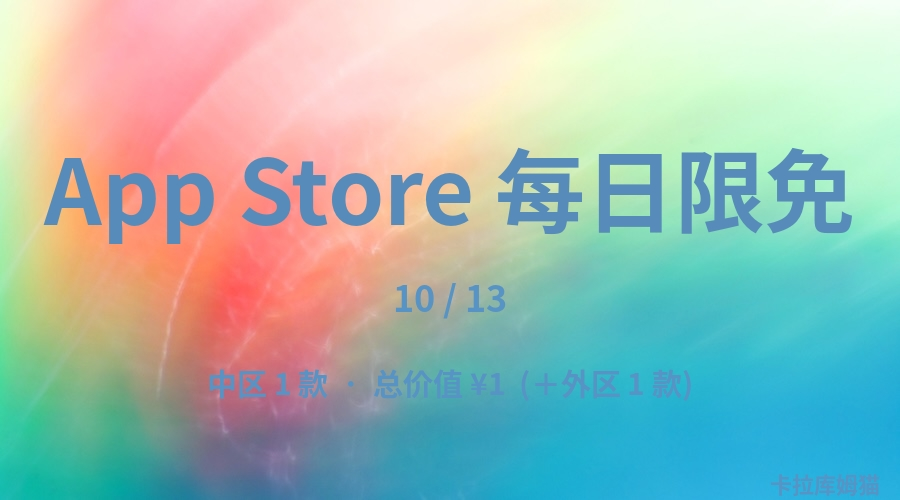
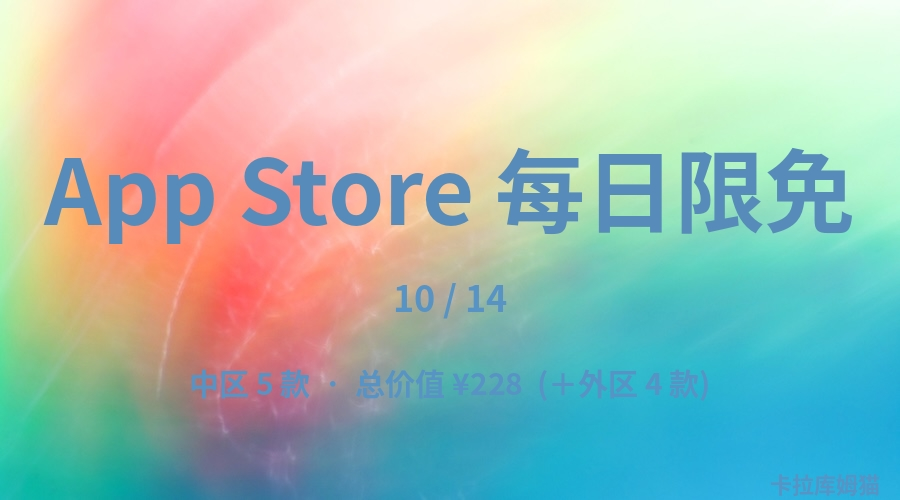
Generate article content [skip ci]

Changed region(s): [[0.1867, 0.72, 0.5289, 0.81], [0.56, 0.72, 0.8089, 0.81], [0.5289, 0.57, 0.56, 0.63]]

diff --git a/output_daily/article.html b/output_daily/article.html
@@ -1,1 +1,1 @@
-<section style="text-align:center;padding:24px 16px 14px;"><section style="display:inline-block;background:linear-gradient(135deg,#ff7b3d,#e05a2a);padding:6px 20px;border-radius:20px;"><span style="font-size:14px;font-weight:700;color:#ffffff;letter-spacing:1px;">10 / 13</span></section><p style="font-size:26px;font-weight:700;color:#2c2c2c;letter-spacing:1px;margin:16px 0 6px;">App Store 每日限免白嫖</p><p style="font-size:13px;color:#999999;margin:0;">iOS限免随时结束 · 长按扫码下载 · 手慢无</p></section><section style="text-align:center;padding:4px 0 16px;"><span style="display:inline-block;width:36px;height:3px;background-color:#e8724a;border-radius:2px;"></span></section><section style="text-align:center;padding:4px 0 16px;"><span style="display:inline-block;font-size:14px;font-weight:600;color:#e8724a;border:1px dashed #e8724a;border-radius:24px;padding:6px 20px;letter-spacing:1px;">⬇ 中区 1 款限免 · 长按扫码下载 ⬇</span></section><section style="text-align:center;padding:0 0 20px;"><span style="display:inline-block;font-size:12px;color:#6b6b6b;background-color:#ffffff;border:1px solid #e8e3db;border-radius:14px;padding:4px 12px;margin:2px 3px;">💰 总价值 <strong style="color:#2c2c2c;">¥1</strong></span><span style="display:inline-block;font-size:12px;color:#6b6b6b;background-color:#ffffff;border:1px solid #e8e3db;border-radius:14px;padding:4px 12px;margin:2px 3px;">🆓 中区全免 <strong style="color:#2c2c2c;">1</strong> 款</span><span style="display:inline-block;font-size:12px;color:#3c7ce0;background-color:#ffffff;border:1px solid #cfe0f7;border-radius:14px;padding:4px 12px;margin:2px 3px;">🌏 外区限免 <strong style="color:#3c7ce0;">1</strong> 款</span><span style="display:inline-block;font-size:12px;color:#6b6b6b;background-color:#ffffff;border:1px solid #e8e3db;border-radius:14px;padding:4px 12px;margin:2px 3px;">⏰ 限时有效</span></section><section style="background-color:#ffffff;border:1px solid #e8e3db;border-radius:10px;margin:0 0 14px;padding:0;"><section style="padding:16px;"><section style="margin:0 0 10px;"><span style="display:inline-block;width:30px;height:30px;background-color:#fdf0ea;color:#e8724a;border-radius:8px;text-align:center;line-height:30px;font-size:14px;font-weight:700;vertical-align:middle;">1</span><span style="font-size:17px;font-weight:700;color:#2c2c2c;vertical-align:middle;margin:0 6px;">🔧 精灵扫描仪-OCR拍照识字朗读</span><span style="display:inline-block;background-color:#e8f7f1;color:#07a776;font-size:12px;font-weight:700;padding:3px 10px;border-radius:12px;margin:0 0 0 4px;vertical-align:middle;">限免中</span><span style="display:inline-block;background-color:#e8f0fc;color:#3c7ce0;font-size:12px;font-weight:500;padding:3px 10px;border-radius:12px;margin:0 0 0 4px;vertical-align:middle;">工具</span></section><section style="margin:0 0 10px;"><p style="font-size:13px;color:#6b6b6b;line-height:1.6;margin:0 0 0 42px;padding:8px 12px;background-color:#f9f7f4;border-radius:6px;border-left:3px solid #e8724a;">产品源于现实生活中一个切身需求：快速准确地将书页或图片上的大段文字转到手机上可编辑，后来扩展到用人工智能语音朗诵。。。  【功能亮点】 AI加持，最新人工智能文字、语音技术即时拍图识字； 识别精准，可编辑、易校对、轻松转语音； 支持多种语言...</p></section><section style="margin:0 0 10px;"><span style="color:#07a776;font-weight:700;font-size:16px;">中区 免费</span><span style="text-decoration:line-through;color:#999999;font-size:13px;margin:0 4px;">原价 ¥1</span><span style="display:inline-block;background-color:#fff0ed;color:#e8724a;font-size:11px;font-weight:600;padding:2px 8px;border-radius:8px;margin:0 0 0 6px;">省 ¥1</span></section><section style="margin:0 0 10px;"><span style="font-size:12px;color:#6b6b6b;">美区 免费</span></section><section style="text-align:center;margin:0;"><img src="{{IMG:qr_0}}" style="width:140px;height:140px;display:inline-block;border:1px solid #e8e3db;border-radius:6px;padding:4px;"><p style="font-size:11px;color:#999999;margin:4px 0 0;">▲ 长按识别二维码，跳转 App Store 下载</p></section></section></section><section style="text-align:center;padding:20px 16px 4px;"><span style="display:inline-block;font-size:15px;font-weight:700;color:#3c7ce0;border:1px dashed #3c7ce0;border-radius:20px;padding:6px 18px;letter-spacing:1px;">🌏 外区限免 · 需切换 Apple ID 地区后下载</span></section><section style="text-align:center;padding:0 16px 10px;"><p style="font-size:12px;color:#999999;margin:6px 0 0;">以下 App 仅美区免费，国区仍为付费。请在 App Store 切换至美区账号后扫码下载。</p></section><section style="background-color:#ffffff;border:1px solid #cfe0f7;border-radius:10px;margin:0 0 14px;padding:0;"><section style="padding:16px;"><section style="margin:0 0 10px;"><span style="display:inline-block;width:30px;height:30px;background-color:#e8f0fc;color:#3c7ce0;border-radius:8px;text-align:center;line-height:30px;font-size:14px;font-weight:700;vertical-align:middle;">1</span><span style="font-size:17px;font-weight:700;color:#2c2c2c;vertical-align:middle;margin:0 6px;">📱 Markit - markdown reader</span><span style="display:inline-block;background-color:#e8f0fc;color:#3c7ce0;font-size:12px;font-weight:500;padding:3px 10px;border-radius:12px;margin:0 0 0 4px;vertical-align:middle;">LTF</span></section><section style="margin:0 0 10px;"><p style="font-size:13px;color:#6b6b6b;line-height:1.6;margin:0 0 0 42px;padding:8px 12px;background-color:#f9f7f4;border-radius:6px;border-left:3px solid #3c7ce0;">Markit 是一个为 macOS 写的 Markdown 编辑器。输入即渲染，你看到的一直是排版好的样子；而磁盘上存的，始终是一份任何工具都能打开的纯 .md 文件。  写起来是什么感觉  所见即所得，标题、列表、表格、脚注即打即现 Me...</p></section><section style="margin:0 0 10px;"><span style="display:inline-block;background-color:#e8f0fc;color:#3c7ce0;font-size:12px;font-weight:700;padding:3px 10px;border-radius:12px;margin:0 0 6px 0;vertical-align:middle;">仅美区免费 · 需切区</span><br><span style="color:#07a776;font-weight:700;font-size:16px;">美区 免费</span></section><section style="margin:0 0 10px;"><span style="font-size:12px;color:#6b6b6b;">中区：原价 ¥88.0（未限免）</span></section><section style="text-align:center;margin:0;"><img src="{{IMG:qr_1}}" style="width:140px;height:140px;display:inline-block;border:1px solid #e8e3db;border-radius:6px;padding:4px;"><p style="font-size:11px;color:#999999;margin:4px 0 0;">▲ 长按识别二维码，跳转美区 App Store 下载</p></section></section></section><section style="text-align:center;padding:20px 16px 8px;"><p style="font-size:12px;color:#999999;line-height:1.8;margin:0;"><span style="color:#e8724a;">●</span> 限免价格随时可能恢复 · 下载前请确认最终价格 <span style="color:#e8724a;">●</span></p><p style="font-size:11px;color:#999999;margin:6px 0 0;">数据来源 App Store · 更新于 2026-10-13</p></section>
+<section style="text-align:center;padding:24px 16px 14px;"><section style="display:inline-block;background:linear-gradient(135deg,#ff7b3d,#e05a2a);padding:6px 20px;border-radius:20px;"><span style="font-size:14px;font-weight:700;color:#ffffff;letter-spacing:1px;">10 / 14</span></section><p style="font-size:26px;font-weight:700;color:#2c2c2c;letter-spacing:1px;margin:16px 0 6px;">App Store 每日限免白嫖</p><p style="font-size:13px;color:#999999;margin:0;">iOS限免随时结束 · 长按扫码下载 · 手慢无</p></section><section style="text-align:center;padding:4px 0 16px;"><span style="display:inline-block;width:36px;height:3px;background-color:#e8724a;border-radius:2px;"></span></section><section style="text-align:center;padding:4px 0 16px;"><span style="display:inline-block;font-size:14px;font-weight:600;color:#e8724a;border:1px dashed #e8724a;border-radius:24px;padding:6px 20px;letter-spacing:1px;">⬇ 中区 5 款限免 · 长按扫码下载 ⬇</span></section><section style="text-align:center;padding:0 0 20px;"><span style="display:inline-block;font-size:12px;color:#6b6b6b;background-color:#ffffff;border:1px solid #e8e3db;border-radius:14px;padding:4px 12px;margin:2px 3px;">💰 总价值 <strong style="color:#2c2c2c;">¥228</strong></span><span style="display:inline-block;font-size:12px;color:#6b6b6b;background-color:#ffffff;border:1px solid #e8e3db;border-radius:14px;padding:4px 12px;margin:2px 3px;">🆓 中区全免 <strong style="color:#2c2c2c;">5</strong> 款</span><span style="display:inline-block;font-size:12px;color:#3c7ce0;background-color:#ffffff;border:1px solid #cfe0f7;border-radius:14px;padding:4px 12px;margin:2px 3px;">🌏 外区限免 <strong style="color:#3c7ce0;">4</strong> 款</span><span style="display:inline-block;font-size:12px;color:#6b6b6b;background-color:#ffffff;border:1px solid #e8e3db;border-radius:14px;padding:4px 12px;margin:2px 3px;">⏰ 限时有效</span></section><section style="background-color:#ffffff;border:1px solid #e8e3db;border-radius:10px;margin:0 0 14px;padding:0;"><section style="padding:16px;"><section style="margin:0 0 10px;"><span style="display:inline-block;width:30px;height:30px;background-color:#fdf0ea;color:#e8724a;border-radius:8px;text-align:center;line-height:30px;font-size:14px;font-weight:700;vertical-align:middle;">1</span><span style="font-size:17px;font-weight:700;color:#2c2c2c;vertical-align:middle;margin:0 6px;">🔧 App Secret Pro</span><span style="display:inline-block;background-color:#e8f7f1;color:#07a776;font-size:12px;font-weight:700;padding:3px 10px;border-radius:12px;margin:0 0 0 4px;vertical-align:middle;">限免中</span><span style="display:inline-block;background-color:#e8f0fc;color:#3c7ce0;font-size:12px;font-weight:500;padding:3px 10px;border-radius:12px;margin:0 0 0 4px;vertical-align:middle;">工具</span></section><section style="margin:0 0 10px;"><p style="font-size:13px;color:#6b6b6b;line-height:1.6;margin:0 0 0 42px;padding:8px 12px;background-color:#f9f7f4;border-radius:6px;border-left:3px solid #e8724a;">App Secret是您的个人金库，用于保护敏感照片、视频、笔记、联系人等-所有这些都受到多层可定制安全性的保护。无论您是保护个人记忆还是机密信息，App Secret都确保只有您才能访问。  曾经把你的手机借给别人吗</p></section><section style="margin:0 0 10px;"><span style="color:#07a776;font-weight:700;font-size:16px;">中区 免费</span><span style="text-decoration:line-through;color:#999999;font-size:13px;margin:0 4px;">原价 ¥28</span><span style="display:inline-block;background-color:#fff0ed;color:#e8724a;font-size:11px;font-weight:600;padding:2px 8px;border-radius:8px;margin:0 0 0 6px;">省 ¥28</span></section><section style="margin:0 0 10px;"><span style="font-size:12px;color:#6b6b6b;">美区 原价 $3.99（未限免）</span></section><section style="text-align:center;margin:0;"><img src="{{IMG:qr_0}}" style="width:140px;height:140px;display:inline-block;border:1px solid #e8e3db;border-radius:6px;padding:4px;"><p style="font-size:11px;color:#999999;margin:4px 0 0;">▲ 长按识别二维码，跳转 App Store 下载</p></section></section></section><section style="background-color:#ffffff;border:1px solid #e8e3db;border-radius:10px;margin:0 0 14px;padding:0;"><section style="padding:16px;"><section style="margin:0 0 10px;"><span style="display:inline-block;width:30px;height:30px;background-color:#fdf0ea;color:#e8724a;border-radius:8px;text-align:center;line-height:30px;font-size:14px;font-weight:700;vertical-align:middle;">2</span><span style="font-size:17px;font-weight:700;color:#2c2c2c;vertical-align:middle;margin:0 6px;">🌦 实时天气雷达Pro - 降雨预报</span><span style="display:inline-block;background-color:#e8f7f1;color:#07a776;font-size:12px;font-weight:700;padding:3px 10px;border-radius:12px;margin:0 0 0 4px;vertical-align:middle;">限免中</span><span style="display:inline-block;background-color:#e8f0fc;color:#3c7ce0;font-size:12px;font-weight:500;padding:3px 10px;border-radius:12px;margin:0 0 0 4px;vertical-align:middle;">天气</span></section><section style="margin:0 0 10px;"><p style="font-size:13px;color:#6b6b6b;line-height:1.6;margin:0 0 0 42px;padding:8px 12px;background-color:#f9f7f4;border-radius:6px;border-left:3px solid #e8724a;">再也不会被雨困住。 Rain Radar Pro 显示强大的实时天气雷达地图，让您实时查看降雨、风暴和降水。跟踪逼近的天气系统，准确知道雨何时会到达您所在位置。 交互式雷达地图让您追踪风暴移动，查看降水强度，监测世界任何地方变化的天气状况。...</p></section><section style="margin:0 0 10px;"><span style="color:#07a776;font-weight:700;font-size:16px;">中区 免费</span><span style="text-decoration:line-through;color:#999999;font-size:13px;margin:0 4px;">原价 ¥148</span><span style="display:inline-block;background-color:#fff0ed;color:#e8724a;font-size:11px;font-weight:600;padding:2px 8px;border-radius:8px;margin:0 0 0 6px;">省 ¥148</span></section><section style="margin:0 0 10px;"><span style="font-size:12px;color:#6b6b6b;">美区 免费</span></section><section style="text-align:center;margin:0;"><img src="{{IMG:qr_1}}" style="width:140px;height:140px;display:inline-block;border:1px solid #e8e3db;border-radius:6px;padding:4px;"><p style="font-size:11px;color:#999999;margin:4px 0 0;">▲ 长按识别二维码，跳转 App Store 下载</p></section></section></section><section style="background-color:#ffffff;border:1px solid #e8e3db;border-radius:10px;margin:0 0 14px;padding:0;"><section style="padding:16px;"><section style="margin:0 0 10px;"><span style="display:inline-block;width:30px;height:30px;background-color:#fdf0ea;color:#e8724a;border-radius:8px;text-align:center;line-height:30px;font-size:14px;font-weight:700;vertical-align:middle;">3</span><span style="font-size:17px;font-weight:700;color:#2c2c2c;vertical-align:middle;margin:0 6px;">🎉 iProTV for iPtv & m3u content</span><span style="display:inline-block;background-color:#e8f7f1;color:#07a776;font-size:12px;font-weight:700;padding:3px 10px;border-radius:12px;margin:0 0 0 4px;vertical-align:middle;">限免中</span><span style="display:inline-block;background-color:#e8f0fc;color:#3c7ce0;font-size:12px;font-weight:500;padding:3px 10px;border-radius:12px;margin:0 0 0 4px;vertical-align:middle;">娱乐</span></section><section style="margin:0 0 10px;"><p style="font-size:13px;color:#6b6b6b;line-height:1.6;margin:0 0 0 42px;padding:8px 12px;background-color:#f9f7f4;border-radius:6px;border-left:3px solid #e8724a;">iProTv让您只需购买一次即可在iPhone/iPad或Apple TV中播放以M3 U/M3 U8格式保存的播放列表，或使用xstream代码！  * 支持xstream代码API和m3 u远程文件。* 下载您最喜欢的电影和电视节目以供...</p></section><section style="margin:0 0 10px;"><span style="color:#07a776;font-weight:700;font-size:16px;">中区 免费</span><span style="text-decoration:line-through;color:#999999;font-size:13px;margin:0 4px;">原价 ¥48</span><span style="display:inline-block;background-color:#fff0ed;color:#e8724a;font-size:11px;font-weight:600;padding:2px 8px;border-radius:8px;margin:0 0 0 6px;">省 ¥48</span></section><section style="margin:0 0 10px;"><span style="font-size:12px;color:#6b6b6b;">美区 原价 $6.99（未限免）</span></section><section style="text-align:center;margin:0;"><img src="{{IMG:qr_2}}" style="width:140px;height:140px;display:inline-block;border:1px solid #e8e3db;border-radius:6px;padding:4px;"><p style="font-size:11px;color:#999999;margin:4px 0 0;">▲ 长按识别二维码，跳转 App Store 下载</p></section></section></section><section style="background-color:#ffffff;border:1px solid #e8e3db;border-radius:10px;margin:0 0 14px;padding:0;"><section style="padding:16px;"><section style="margin:0 0 10px;"><span style="display:inline-block;width:30px;height:30px;background-color:#fdf0ea;color:#e8724a;border-radius:8px;text-align:center;line-height:30px;font-size:14px;font-weight:700;vertical-align:middle;">4</span><span style="font-size:17px;font-weight:700;color:#2c2c2c;vertical-align:middle;margin:0 6px;">📱 节奏计时 - 演讲辩论计时器</span><span style="display:inline-block;background-color:#e8f7f1;color:#07a776;font-size:12px;font-weight:700;padding:3px 10px;border-radius:12px;margin:0 0 0 4px;vertical-align:middle;">限免中</span><span style="display:inline-block;background-color:#e8f0fc;color:#3c7ce0;font-size:12px;font-weight:500;padding:3px 10px;border-radius:12px;margin:0 0 0 4px;vertical-align:middle;">效率,教育</span></section><section style="margin:0 0 10px;"><p style="font-size:13px;color:#6b6b6b;line-height:1.6;margin:0 0 0 42px;padding:8px 12px;background-color:#f9f7f4;border-radius:6px;border-left:3px solid #e8724a;">节奏计时用颜色告诉你时间的节奏：绿色从容、黄色该收尾、红色超时。看一眼屏幕，不用盯着时钟。  为限时发言而做 演讲、汇报、说课、辩论赛、面试、会议、路演排练。  免费功能 • 绿 → 黄 → 红背景变色，每次切换伴随声音、震动和闪烁 • 总...</p></section><section style="margin:0 0 10px;"><span style="color:#07a776;font-weight:700;font-size:16px;">中区 免费</span><span style="text-decoration:line-through;color:#999999;font-size:13px;margin:0 4px;">原价 ¥1</span><span style="display:inline-block;background-color:#fff0ed;color:#e8724a;font-size:11px;font-weight:600;padding:2px 8px;border-radius:8px;margin:0 0 0 6px;">省 ¥1</span></section><section style="margin:0 0 10px;"><span style="font-size:12px;color:#6b6b6b;">美区 免费</span></section><section style="text-align:center;margin:0;"><img src="{{IMG:qr_3}}" style="width:140px;height:140px;display:inline-block;border:1px solid #e8e3db;border-radius:6px;padding:4px;"><p style="font-size:11px;color:#999999;margin:4px 0 0;">▲ 长按识别二维码，跳转 App Store 下载</p></section></section></section><section style="background-color:#ffffff;border:1px solid #e8e3db;border-radius:10px;margin:0 0 14px;padding:0;"><section style="padding:16px;"><section style="margin:0 0 10px;"><span style="display:inline-block;width:30px;height:30px;background-color:#fdf0ea;color:#e8724a;border-radius:8px;text-align:center;line-height:30px;font-size:14px;font-weight:700;vertical-align:middle;">5</span><span style="font-size:17px;font-weight:700;color:#2c2c2c;vertical-align:middle;margin:0 6px;">📱 Cute Donuts Stickers</span><span style="display:inline-block;background-color:#e8f7f1;color:#07a776;font-size:12px;font-weight:700;padding:3px 10px;border-radius:12px;margin:0 0 0 4px;vertical-align:middle;">限免中</span><span style="display:inline-block;background-color:#e8f0fc;color:#3c7ce0;font-size:12px;font-weight:500;padding:3px 10px;border-radius:12px;margin:0 0 0 4px;vertical-align:middle;">娱乐,贴纸,表情与用语,饮食</span></section><section style="margin:0 0 10px;"><p style="font-size:13px;color:#6b6b6b;line-height:1.6;margin:0 0 0 42px;padding:8px 12px;background-color:#f9f7f4;border-radius:6px;border-left:3px solid #e8724a;">甜甜圈不能吃太多！尤其是如果它们如此可爱且无糖。  可爱的甜甜圈贴纸是表达自己并使您的信息更加有趣和富有创意的好方法。您可以在消息、图片甚至彼此上添加贴纸。</p></section><section style="margin:0 0 10px;"><span style="color:#07a776;font-weight:700;font-size:16px;">中区 免费</span><span style="text-decoration:line-through;color:#999999;font-size:13px;margin:0 4px;">原价 ¥3</span><span style="display:inline-block;background-color:#fff0ed;color:#e8724a;font-size:11px;font-weight:600;padding:2px 8px;border-radius:8px;margin:0 0 0 6px;">省 ¥3</span></section><section style="margin:0 0 10px;"><span style="font-size:12px;color:#6b6b6b;">美区 免费</span></section><section style="text-align:center;margin:0;"><img src="{{IMG:qr_4}}" style="width:140px;height:140px;display:inline-block;border:1px solid #e8e3db;border-radius:6px;padding:4px;"><p style="font-size:11px;color:#999999;margin:4px 0 0;">▲ 长按识别二维码，跳转 App Store 下载</p></section></section></section><section style="text-align:center;padding:20px 16px 4px;"><span style="display:inline-block;font-size:15px;font-weight:700;color:#3c7ce0;border:1px dashed #3c7ce0;border-radius:20px;padding:6px 18px;letter-spacing:1px;">🌏 外区限免 · 需切换 Apple ID 地区后下载</span></section><section style="text-align:center;padding:0 16px 10px;"><p style="font-size:12px;color:#999999;margin:6px 0 0;">以下 App 仅美区免费，国区仍为付费。请在 App Store 切换至美区账号后扫码下载。</p></section><section style="background-color:#ffffff;border:1px solid #cfe0f7;border-radius:10px;margin:0 0 14px;padding:0;"><section style="padding:16px;"><section style="margin:0 0 10px;"><span style="display:inline-block;width:30px;height:30px;background-color:#e8f0fc;color:#3c7ce0;border-radius:8px;text-align:center;line-height:30px;font-size:14px;font-weight:700;vertical-align:middle;">1</span><span style="font-size:17px;font-weight:700;color:#2c2c2c;vertical-align:middle;margin:0 6px;">📱 Solitaire Whizz</span><span style="display:inline-block;background-color:#e8f0fc;color:#3c7ce0;font-size:12px;font-weight:500;padding:3px 10px;border-radius:12px;margin:0 0 0 4px;vertical-align:middle;">LTF</span></section><section style="margin:0 0 10px;"><p style="font-size:13px;color:#6b6b6b;line-height:1.6;margin:0 0 0 42px;padding:8px 12px;background-color:#f9f7f4;border-radius:6px;border-left:3px solid #3c7ce0;">精品LTF类应用，限时免费中。</p></section><section style="margin:0 0 10px;"><span style="display:inline-block;background-color:#e8f0fc;color:#3c7ce0;font-size:12px;font-weight:700;padding:3px 10px;border-radius:12px;margin:0 0 6px 0;vertical-align:middle;">仅美区免费 · 需切区</span><br><span style="color:#07a776;font-weight:700;font-size:16px;">美区 免费</span></section><section style="margin:0 0 10px;"><span style="font-size:12px;color:#6b6b6b;">中区：未上架 / 未限免</span></section><section style="text-align:center;margin:0;"><img src="{{IMG:qr_5}}" style="width:140px;height:140px;display:inline-block;border:1px solid #e8e3db;border-radius:6px;padding:4px;"><p style="font-size:11px;color:#999999;margin:4px 0 0;">▲ 长按识别二维码，跳转美区 App Store 下载</p></section></section></section><section style="background-color:#ffffff;border:1px solid #cfe0f7;border-radius:10px;margin:0 0 14px;padding:0;"><section style="padding:16px;"><section style="margin:0 0 10px;"><span style="display:inline-block;width:30px;height:30px;background-color:#e8f0fc;color:#3c7ce0;border-radius:8px;text-align:center;line-height:30px;font-size:14px;font-weight:700;vertical-align:middle;">2</span><span style="font-size:17px;font-weight:700;color:#2c2c2c;vertical-align:middle;margin:0 6px;">📱 Corto: Geography Map Game</span><span style="display:inline-block;background-color:#e8f0fc;color:#3c7ce0;font-size:12px;font-weight:500;padding:3px 10px;border-radius:12px;margin:0 0 0 4px;vertical-align:middle;">IAP</span></section><section style="margin:0 0 10px;"><p style="font-size:13px;color:#6b6b6b;line-height:1.6;margin:0 0 0 42px;padding:8px 12px;background-color:#f9f7f4;border-radius:6px;border-left:3px solid #3c7ce0;">精品IAP类应用，限时免费中。</p></section><section style="margin:0 0 10px;"><span style="display:inline-block;background-color:#e8f0fc;color:#3c7ce0;font-size:12px;font-weight:700;padding:3px 10px;border-radius:12px;margin:0 0 6px 0;vertical-align:middle;">仅美区免费 · 需切区</span><br><span style="color:#07a776;font-weight:700;font-size:16px;">美区 免费</span></section><section style="margin:0 0 10px;"><span style="font-size:12px;color:#6b6b6b;">中区：未上架 / 未限免</span></section><section style="text-align:center;margin:0;"><img src="{{IMG:qr_6}}" style="width:140px;height:140px;display:inline-block;border:1px solid #e8e3db;border-radius:6px;padding:4px;"><p style="font-size:11px;color:#999999;margin:4px 0 0;">▲ 长按识别二维码，跳转美区 App Store 下载</p></section></section></section><section style="background-color:#ffffff;border:1px solid #cfe0f7;border-radius:10px;margin:0 0 14px;padding:0;"><section style="padding:16px;"><section style="margin:0 0 10px;"><span style="display:inline-block;width:30px;height:30px;background-color:#e8f0fc;color:#3c7ce0;border-radius:8px;text-align:center;line-height:30px;font-size:14px;font-weight:700;vertical-align:middle;">3</span><span style="font-size:17px;font-weight:700;color:#2c2c2c;vertical-align:middle;margin:0 6px;">📱 Kalender in Bewegung: DaySpin</span><span style="display:inline-block;background-color:#e8f0fc;color:#3c7ce0;font-size:12px;font-weight:500;padding:3px 10px;border-radius:12px;margin:0 0 0 4px;vertical-align:middle;">IAP</span></section><section style="margin:0 0 10px;"><p style="font-size:13px;color:#6b6b6b;line-height:1.6;margin:0 0 0 42px;padding:8px 12px;background-color:#f9f7f4;border-radius:6px;border-left:3px solid #3c7ce0;">精品IAP类应用，限时免费中。</p></section><section style="margin:0 0 10px;"><span style="display:inline-block;background-color:#e8f0fc;color:#3c7ce0;font-size:12px;font-weight:700;padding:3px 10px;border-radius:12px;margin:0 0 6px 0;vertical-align:middle;">仅美区免费 · 需切区</span><br><span style="color:#07a776;font-weight:700;font-size:16px;">美区 免费</span></section><section style="margin:0 0 10px;"><span style="font-size:12px;color:#6b6b6b;">中区：未上架 / 未限免</span></section><section style="text-align:center;margin:0;"><img src="{{IMG:qr_7}}" style="width:140px;height:140px;display:inline-block;border:1px solid #e8e3db;border-radius:6px;padding:4px;"><p style="font-size:11px;color:#999999;margin:4px 0 0;">▲ 长按识别二维码，跳转美区 App Store 下载</p></section></section></section><section style="background-color:#ffffff;border:1px solid #cfe0f7;border-radius:10px;margin:0 0 14px;padding:0;"><section style="padding:16px;"><section style="margin:0 0 10px;"><span style="display:inline-block;width:30px;height:30px;background-color:#e8f0fc;color:#3c7ce0;border-radius:8px;text-align:center;line-height:30px;font-size:14px;font-weight:700;vertical-align:middle;">4</span><span style="font-size:17px;font-weight:700;color:#2c2c2c;vertical-align:middle;margin:0 6px;">📱 Mayor 4000: City Builder</span><span style="display:inline-block;background-color:#e8f0fc;color:#3c7ce0;font-size:12px;font-weight:500;padding:3px 10px;border-radius:12px;margin:0 0 0 4px;vertical-align:middle;">IAP</span></section><section style="margin:0 0 10px;"><p style="font-size:13px;color:#6b6b6b;line-height:1.6;margin:0 0 0 42px;padding:8px 12px;background-color:#f9f7f4;border-radius:6px;border-left:3px solid #3c7ce0;">精品IAP类应用，限时免费中。</p></section><section style="margin:0 0 10px;"><span style="display:inline-block;background-color:#e8f0fc;color:#3c7ce0;font-size:12px;font-weight:700;padding:3px 10px;border-radius:12px;margin:0 0 6px 0;vertical-align:middle;">仅美区免费 · 需切区</span><br><span style="color:#07a776;font-weight:700;font-size:16px;">美区 免费</span></section><section style="margin:0 0 10px;"><span style="font-size:12px;color:#6b6b6b;">中区：未上架 / 未限免</span></section><section style="text-align:center;margin:0;"><img src="{{IMG:qr_8}}" style="width:140px;height:140px;display:inline-block;border:1px solid #e8e3db;border-radius:6px;padding:4px;"><p style="font-size:11px;color:#999999;margin:4px 0 0;">▲ 长按识别二维码，跳转美区 App Store 下载</p></section></section></section><section style="text-align:center;padding:20px 16px 8px;"><p style="font-size:12px;color:#999999;line-height:1.8;margin:0;"><span style="color:#e8724a;">●</span> 限免价格随时可能恢复 · 下载前请确认最终价格 <span style="color:#e8724a;">●</span></p><p style="font-size:11px;color:#999999;margin:6px 0 0;">数据来源 App Store · 更新于 2026-10-14</p></section>
